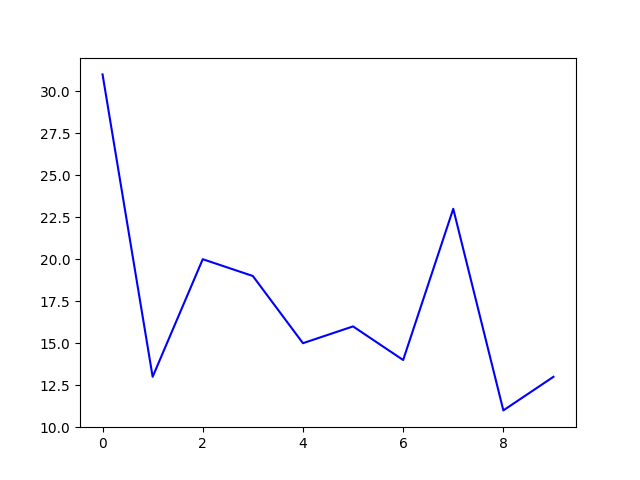
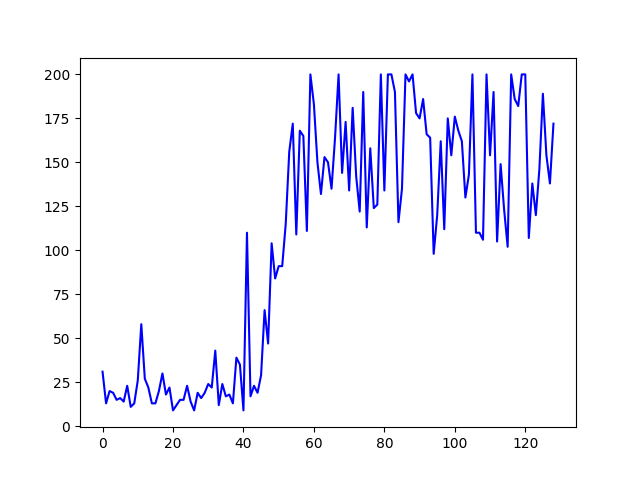
Update

diff --git a/gym-foo/gym_foo/envs/mobile_cloud_machine_learning.py b/gym-foo/gym_foo/envs/mobile_cloud_machine_learning.py
@@ -15,33 +15,35 @@ micro = 0.6 # μ(GHz): number of CPU cycles corresponding to f_n CPU shares
 delta = 1 # δ(Joule): energy unit
 
 # Hieunq: newly defined variables
-F_n = 10 # maximum number of CPU shares
-C_n = 10 # capacity of energy storage
+F_cpu = 10 # maximum number of CPU shares
+C_capacity = 10 # capacity of energy storage
 # Dmax = N * D_n - 1 # offset = 1
 # Emax = N * E_n - 1
 Dmax = D_n - 1
 Emax = E_n - 1
-scale_factor = 1000
+scale_factor = 10
+F_THRESOLD = 3
 
 
 class MCML(gym.Env):
     """
     Mobile cloud machine learning environment
-
-    - State space: Sn = {(fn , cn ) ; fn ∈ {0, 1, . . . , Fn } , cn ∈ {0, 1, . . . , Cn } ,
-    - Action space: A = {(d1 , e1 , . . . , dN , eN );dn ≤ Dn , en ≤ cn , fn ̄≤ μfn, n = (1, . . . , N )}
-    - Transition: c_n' = c_n - e_n + A_n
+    Simple environfment: 1 mobile agent act as a server
+    - State space: S = {(f , c ) ; f ∈ {0, 1, . . . , Fn } , c ∈ {0, 1, . . . , Cn } ,
+    - Action space: A = {(d , e);d ≤ Dn , e ≤ cn , f ̄≤ μf, n = (1, . . . , N )}
+    - Transition: c' = c - e + A
     """
     def __init__(self):
 
-        # high_action = np.array([D_n, E_n])
-        # high_action = np.repeat(high_action, N)
+        high_action = np.array([D_n, E_n])
+        high_action = np.repeat(high_action, N)
 
         # For simplicity, assume F_n = C_n
-        self.observation_space = spaces.Box(low=0, high=F_n, shape=(2*N,), dtype=int)
+        self.observation_space = spaces.Box(low=0, high=F_cpu, shape=(2 * N,), dtype=int)
         # MultiDiscrete samples all actions at one time and return random value for each action !
-        # self.action_space = spaces.MultiDiscrete(high_action) # A = {(d_1, e_1, ..., d_N, e_N)}
-        self.action_space = spaces.Discrete(2 * N)
+        self.action_space = spaces.MultiDiscrete(high_action) # A = {(d_1, e_1, ..., d_N, e_N)}
+        # self.action_space = spaces.Discrete(2)
+        # self.action_space = spaces.Box(low=0, high=E_n, shape=(2,), dtype=int)
 
         self.seed()
         self.state = None
@@ -52,39 +54,36 @@ class MCML(gym.Env):
         # print("debug: action.sample() {}".format(self.action_space.sample()))
         assert self.action_space.contains(action), "%r (%s) invalid"%(action, type(action))
 
-        # choose 2 values of d_n and e_n, make sure they meet the constrains
-        e_n, d_n = np.random.randint(0, E_n), np.random.randint(0, D_n)
-        # save the position of action
-        e_n_offset = action % N
-
         state = self.state
-        # accumulated_data, energy_consumption, training_latency = 0, 0, 0
 
-        f_array, c_array = [], []
-        radom_state = self.observation_space.sample() # random transition following uniform distribution
+        f_cpu = np.random.randint(0, F_cpu, size=3) # fn get an random action
+        c_unit = state.reshape([2, N])[1].copy() # copy cn from current state
 
-        for i in range(state.shape[0]): # 0 to 5
-            if i < N:
-                f_array.append(radom_state[i]) # shape (3, ), append first 3 elements
-            else:
-                c_array.append(state[i]) # shape (3, )
+        # add fn penalty later
+        d_unit = np.asarray(action).reshape([2, N])[0].copy()
+        e_unit = np.asarray(action).reshape([2, N])[1].copy() # copy last 3 elements
 
-        A_n = 0
-        c_array[e_n_offset] = c_array[e_n_offset] - e_n + A_n
+        #state transition
+        c_unit_next = np.subtract(c_unit, e_unit)
 
-        self.state = np.array([f_array, c_array], dtype=int).flatten() # state update
+        total_data = np.sum(d_unit)
+        total_energy = np.sum(e_unit)
 
-        done = d_n >= Dmax or e_n >= Emax or c_array[e_n_offset] < 0
-
-        if not done:
-            reward =  scale_factor * (d_n / Dmax - e_n / Emax)
+        if np.amin(c_unit_next) < 0:
+            reward = - 10
         else:
-            reward = 0
+            reward = scale_factor * total_data - total_energy
+
+        next_state = np.array([f_cpu, c_unit_next]).flatten()
+
+        done = False
+        self.state = self.observation_space.sample()
+        print(action, e_unit, state, f_cpu, c_unit,c_unit_next, next_state) # [2 2 2 2 0 1]
 
         return np.array(self.state), reward, done, {}
 
     def reset(self):
-        self.state = self.nprandom.randint(low=0, high=F_n, size=self.observation_space.shape) # not so sure
+        self.state = self.nprandom.randint(low=0, high=F_cpu, size=self.observation_space.shape) # not so sure
         return self.state
 
     def seed(self, seed=None):

diff --git a/gym-foo/test_agent.py b/gym-foo/test_agent.py
@@ -22,7 +22,7 @@ env = gym.make(ENV_NAME)
 np.random.seed(123)
 env.seed(123)
 # nb_actions = 1
-nb_actions = env.action_space.n # e.g 4**6 # sulution for action which is not a discrete ?
+nb_actions = env.action_space.shape[0] # e.g 4**6 # sulution for action which is not a discrete ?
 # for i in env.action_space.nvec:
 #     nb_actions *= i
 
@@ -46,17 +46,17 @@ print(env.observation_space.sample())
 memory = SequentialMemory(limit=50000, window_length=1)
 # policy = BoltzmannQPolicy()
 policy = GreedyQPolicy()
-dqn = DQNAgent(model=model, nb_actions=nb_actions, memory=memory, nb_steps_warmup=10,
+dqn = DQNAgent(model=model, nb_actions=nb_actions, memory=memory, nb_steps_warmup=100,
                target_model_update=1e-2, policy=policy, enable_double_dqn=False)
 dqn.compile(Adam(lr=1e-3), metrics=['mae'])
 # Okay, now it's time to learn something! We visualize the training here for show, but this
 # slows down training quite a lot. You can always safely abort the training prematurely using
 # Ctrl + C.
-learning_history = dqn.fit(env, nb_steps=50000, visualize=False, verbose=2)
-print(learning_history.history.get('episode_reward'))
+learning_history = dqn.fit(env, nb_steps=50000, visualize=False, verbose=2, nb_max_episode_steps=100)
 
 reward_history = learning_history.history.get('episode_reward')
 episode_history = np.arange(0, len(reward_history))
+print(reward_history)
 # print(reward_history, episode_history)
 # plot score and save image
 pylab.plot(episode_history, reward_history, 'b')

diff --git a/gym-foo/test_env.py b/gym-foo/test_env.py
@@ -13,18 +13,26 @@ env.reset()
 # nb_actions = 1
 # for i in env.action_space.nvec:
 #     nb_actions = nb_actions * i
-# # Test step()
-# for _ in range(5):
-#     state, reward, done, info = env.step(env.action_space.sample())
-#     env.reset()
-#     print(state, reward, done, info)
-#
-# print(nb_actions)
-nprandom = np.random.RandomState()
-reset_state = nprandom.randint(low=0, high=10, size=env.observation_space.shape)
-print(reset_state)
+# Test step()
+# print(np.min([33, 8]))
+# print(np.random.randint(0, 5))
+print(env.action_space.shape, env.observation_space.shape)
 
-print( 8 % 5)
+xPoints, yPoints = [], []
+for x in range(100):
+    state, reward, done, info = env.step(env.action_space.sample())
+    xPoints.append(x)
+    yPoints.append(reward)
+    env.reset()
+    print(state, reward, done, info)
+plt.plot(xPoints, yPoints)
+plt.show()
+
+# print(nb_actions)
+# nprandom = np.random.RandomState()
+# reset_state = nprandom.randint(low=0, high=10, size=env.observation_space.shape)
+# print(reset_state)
+
 
 
 

diff --git a/gym-foo/gym_foo/mcml_processor.py b/gym-foo/gym_foo/mcml_processor.py
@@ -1,0 +1,17 @@
+from rl.core import Processor
+
+class MCMLProcessor(Processor):
+    def __init__(self):
+        ...
+    def process_step(self, observation, reward, done, info):
+        ...
+    def process_action(self, action):
+        ...
+    def process_info(self, info):
+        ...
+    def process_observation(self, observation):
+        ...
+    def process_reward(self, reward):
+        ...
+    def process_state_batch(self, batch):
+        ...
